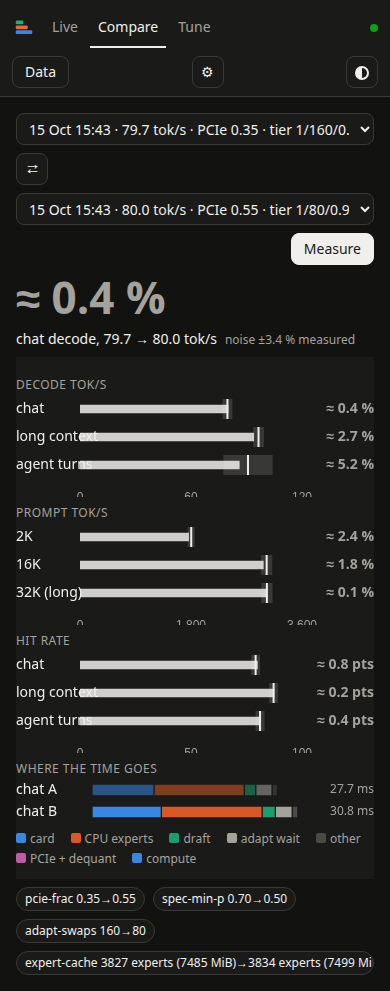
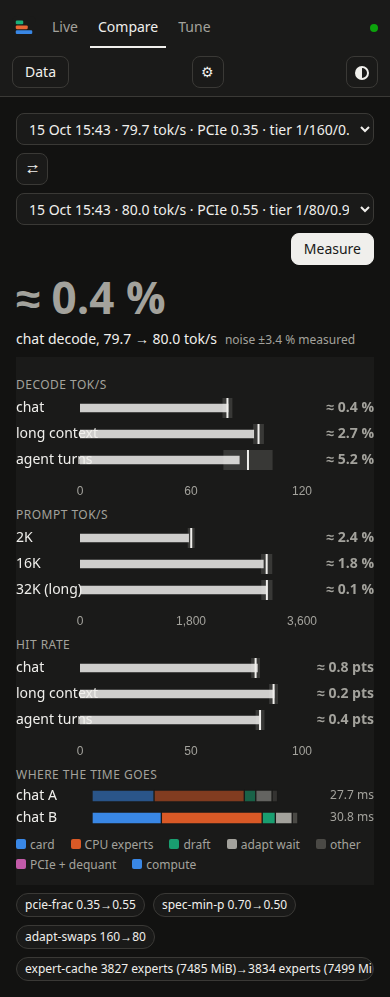
Name the three small multiples and give the bullet axes room
Each small chart on Live carries its name and unit (tok/s, hit %, ms / window) at the
top left of its area; the axis row under each bullet group is 8 px taller so the tick
numbers are whole (the rows are 2 px shorter, so Compare still ends at 900 px).

diff --git a/web/charts.js b/web/charts.js
@@ -359,12 +359,27 @@
     const onHover = (chartRef) => (evt, active, chart) => {
       sync(active.length ? active[0].index : null, chart);
     };
-    const mk = (canvas, type, showX) => {
+    // the name and unit of each small chart, 12 px muted, top-left inside the chart area
+    const nameOf = (text) => ({
+      id: 'studioName',
+      afterDraw(chart) {
+        const ctx = chart.ctx;
+        ctx.save();
+        ctx.font = font(12, 400, h.pal || pal());
+        ctx.fillStyle = (h.pal || pal())['--ink-muted'];
+        ctx.textAlign = 'left';
+        ctx.textBaseline = 'top';
+        ctx.fillText(text, chart.chartArea.left + 4, chart.chartArea.top + 2);
+        ctx.restore();
+      },
+    });
+    const mk = (canvas, type, showX, name) => {
       const options = common(showX);
       options.onHover = onHover();
-      return new Chart(canvas, { type, data: { labels: [], datasets: [] }, options });
+      return new Chart(canvas, { type, data: { labels: [], datasets: [] }, options, plugins: [nameOf(name)] });
     };
-    h.charts = [mk(canvases[0], 'line', false), mk(canvases[1], 'line', false), mk(canvases[2], 'bar', true)];
+    h.charts = [mk(canvases[0], 'line', false, 'tok/s'), mk(canvases[1], 'line', false, 'hit %'),
+      mk(canvases[2], 'bar', true, 'ms / window')];
     h.charts[2].options.scales.x.stacked = true;
     h.charts[2].options.scales.y.stacked = true;
     h.charts[2].options.scales.y.beginAtZero = true;
@@ -504,7 +519,7 @@
       c.options.layout.padding.right = small ? 72 : 120;
       c.options.scales.x.max = spec.max;
       c.options.scales.x.ticks.color = p['--ink-muted'];
-      c.options.scales.x.afterFit = (s) => { s.height = 18; };
+      c.options.scales.x.afterFit = (s) => { s.height = 26; };
       c.data.labels = spec.rows.map((r) => r.label);
       c.data.datasets = [{
         data: spec.rows.map((r) => (isNum(r.b) ? r.b : null)), backgroundColor: alpha(p['--ink'], 0.85),

diff --git a/web/app.js b/web/app.js
@@ -694,7 +694,7 @@
       g.wrap.hidden = rs.length === 0;
       if (!rs.length || !g.handle) return;
       const maxv = Math.max(...rs.flatMap((r) => [r.a, r.b, isNum(r.a) && isNum(r.floor) ? r.a + r.floor : null].filter(isNum)), 1);
-      g.box.style.height = `${rs.length * 28 + 18}px`;
+      g.box.style.height = `${rs.length * 26 + 26}px`;
       const mag = Math.pow(10, Math.floor(Math.log10(maxv * 1.1)));
       const step = mag / 5;
       g.handle.update({ rows: rs, max: Math.ceil((maxv * 1.1) / step) * step, showTick: pair });
